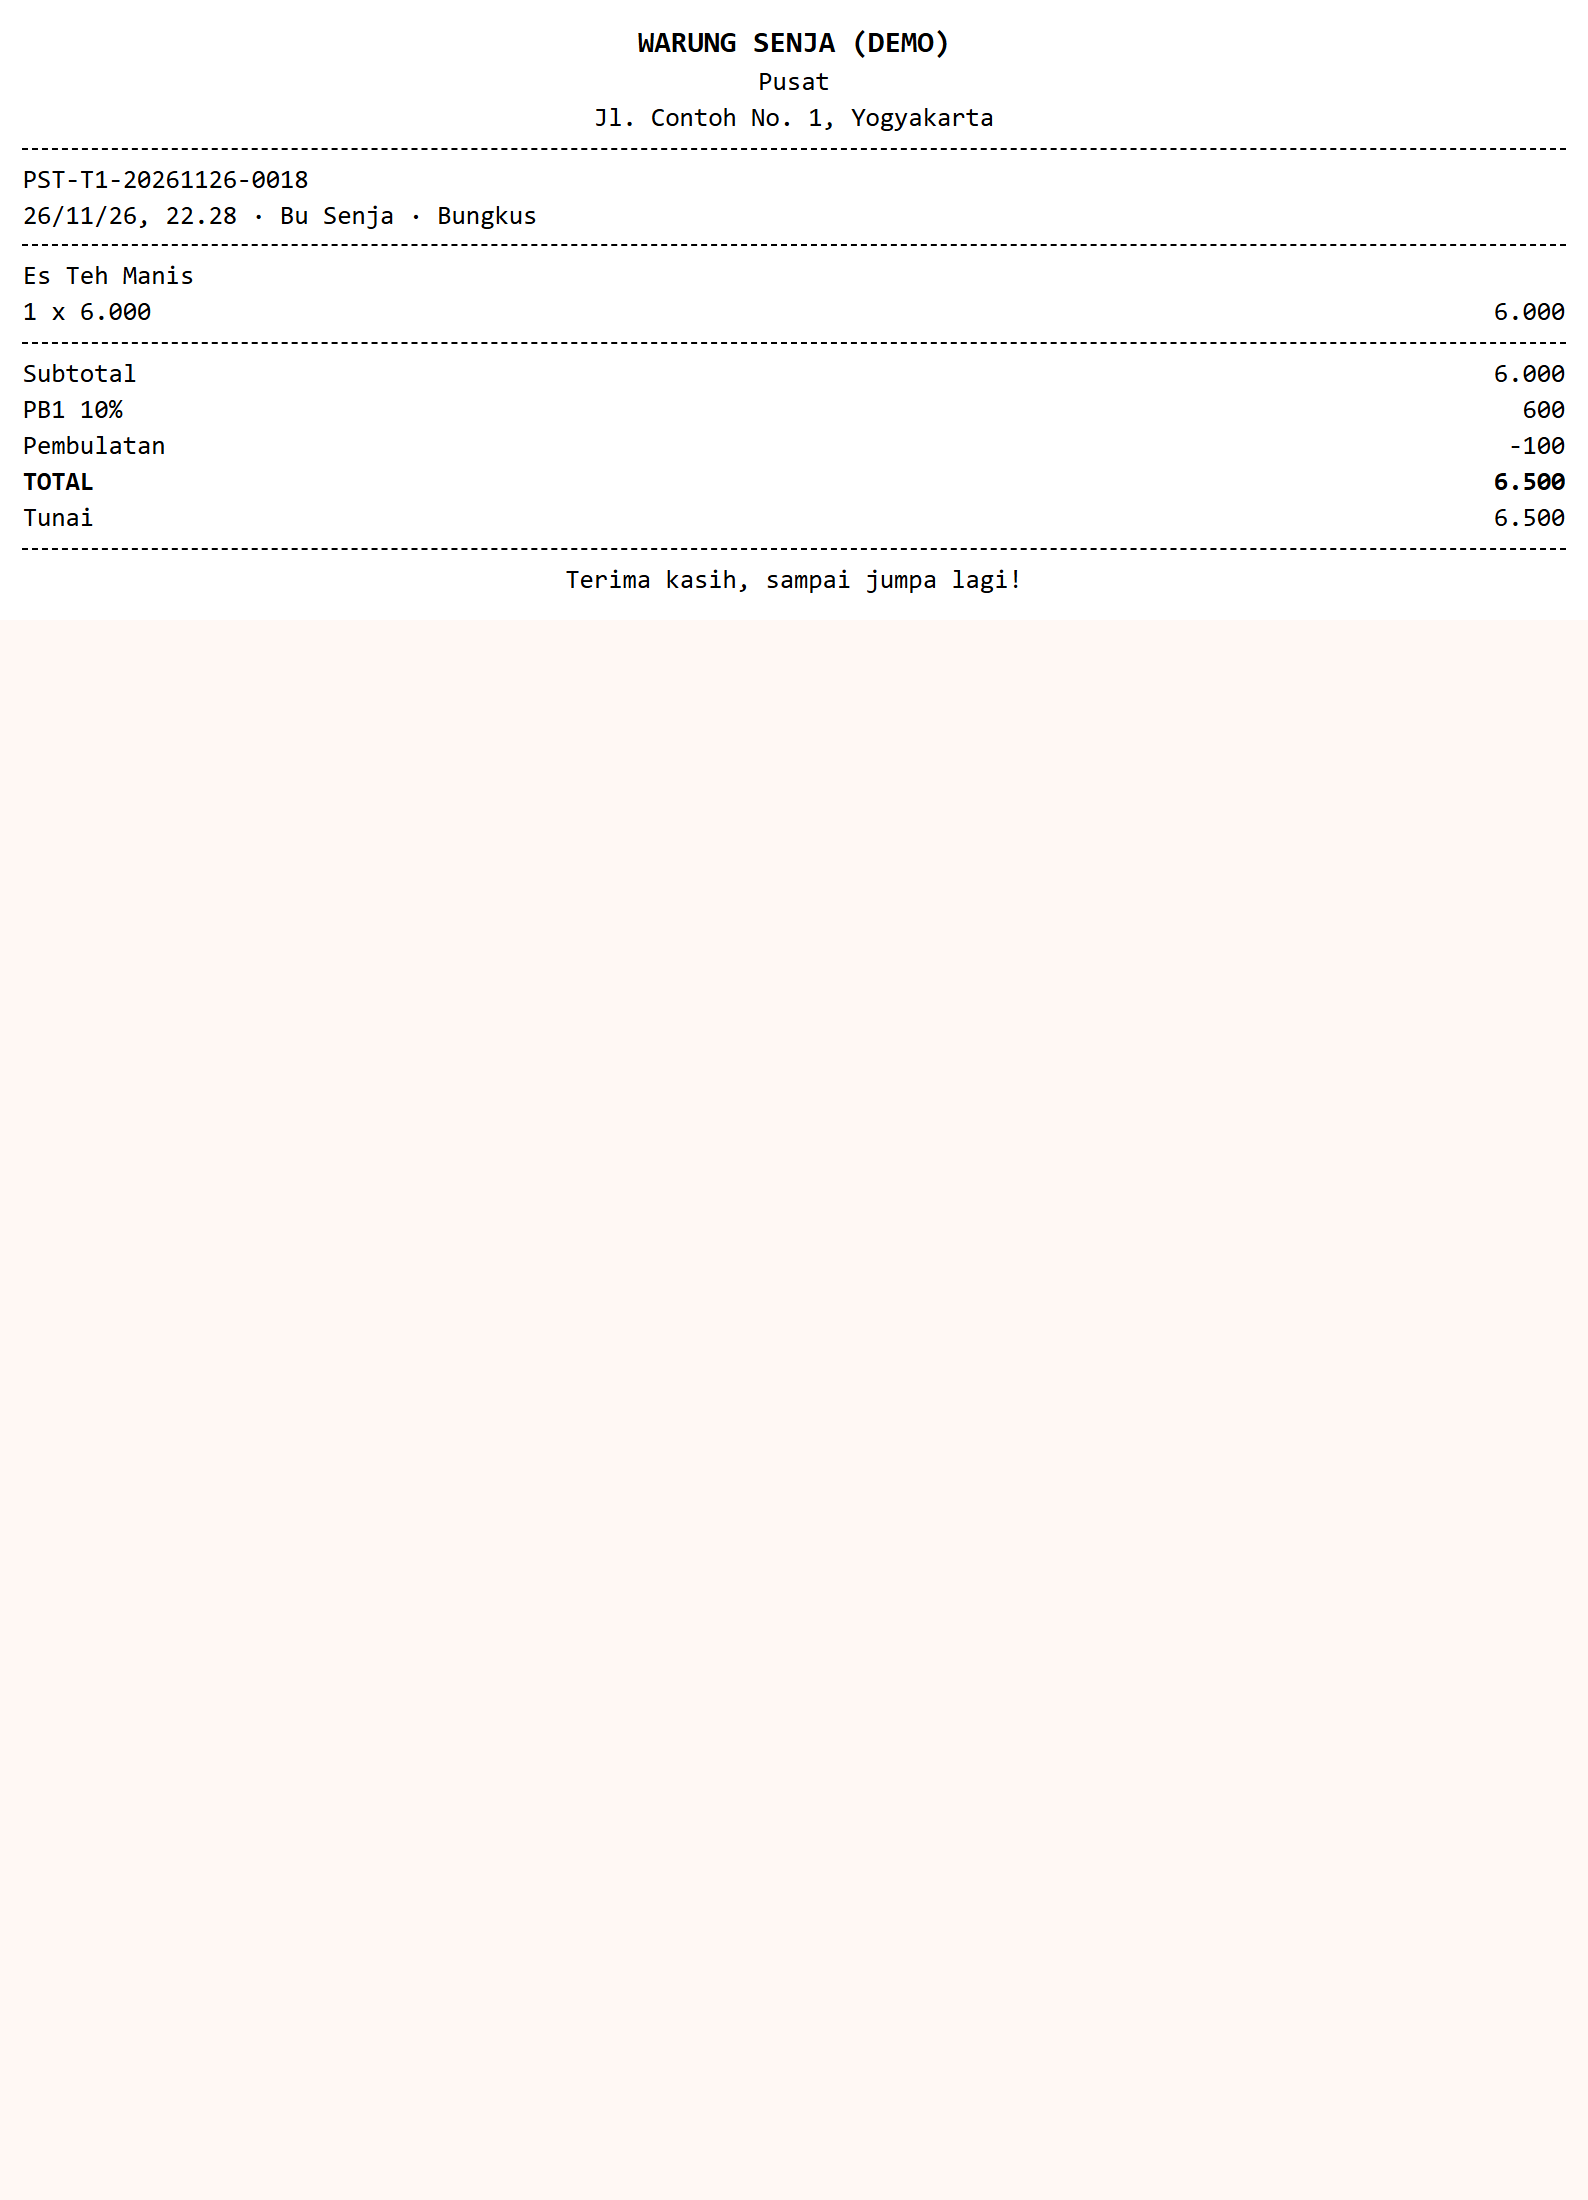
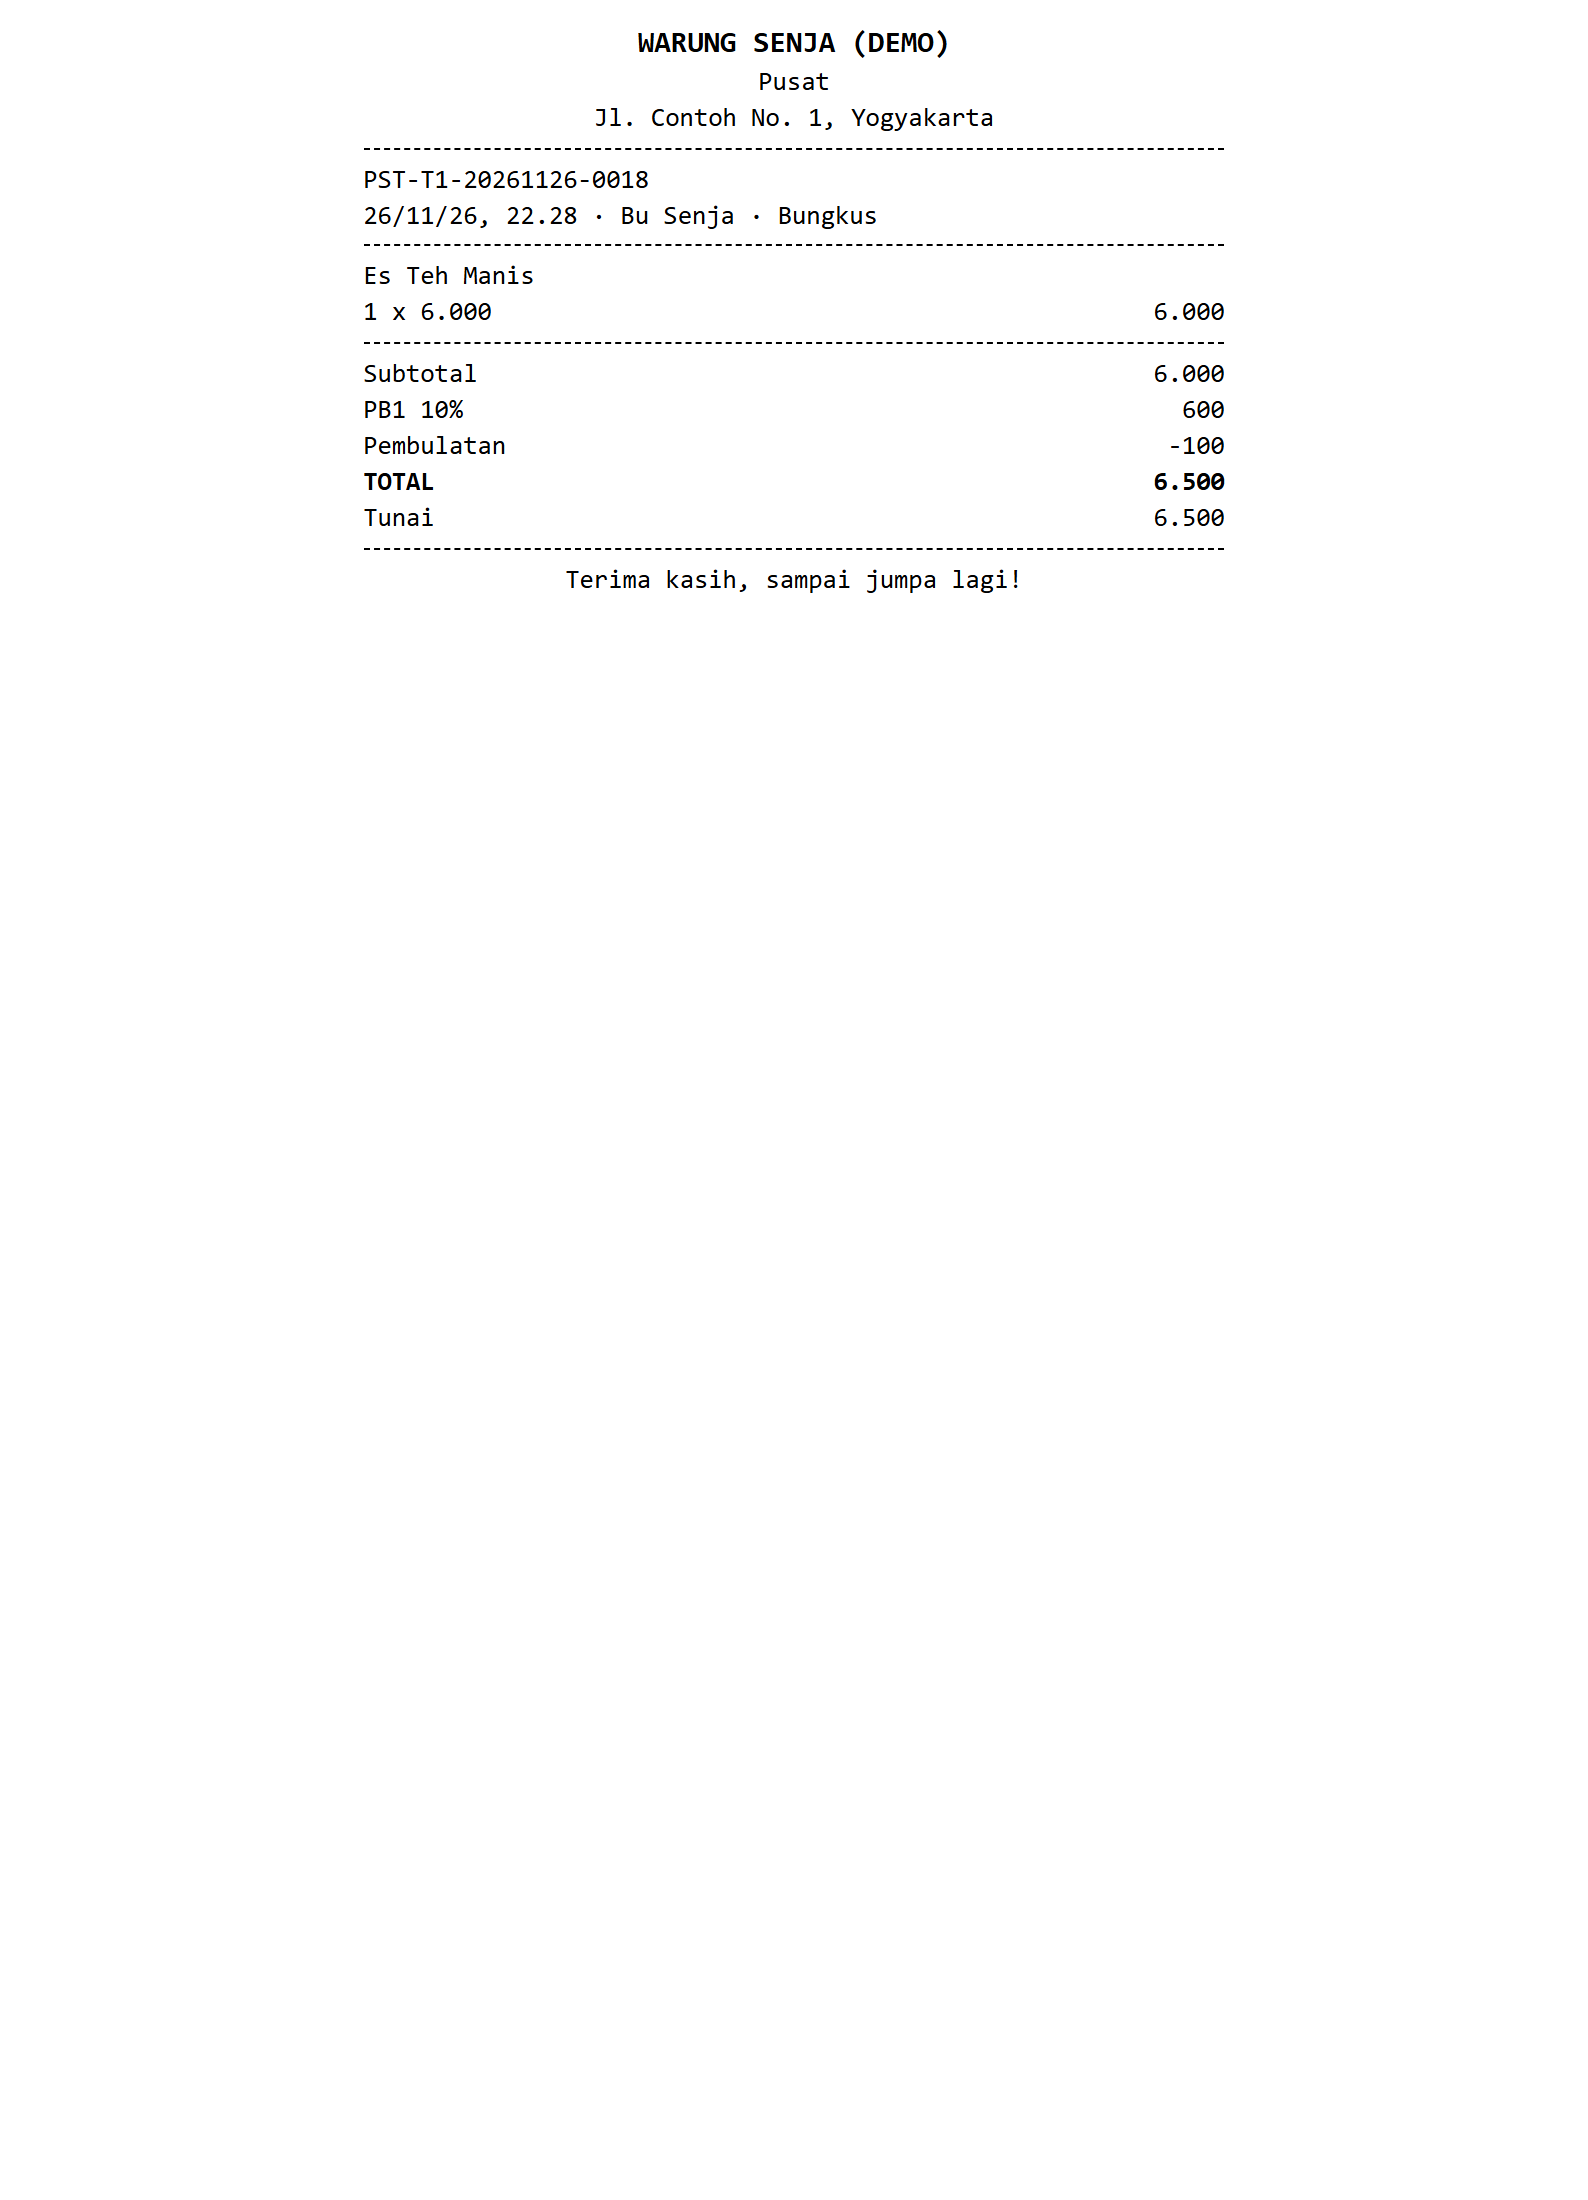
fix(struk): centre the A4 receipt and print on white
The A4 receipt spanned the full page, leaving amounts at the far right
edge. It is now a centred 120 mm column with 20 mm page margins, and
the page background prints white on every paper size.

diff --git a/src/app/kasir/struk/[id]/page.tsx b/src/app/kasir/struk/[id]/page.tsx
@@ -19,7 +19,8 @@ const METHOD_LABEL: Record<string, string> = { cash: "Tunai", qris: "QRIS", tran
 const PAGE: Record<string, string> = {
   "58mm": "@page { margin: 0 } .receipt { width: 58mm; font-size: 11px }",
   "80mm": "@page { margin: 0 } .receipt { width: 80mm; font-size: 12px }",
-  a4: "@page { size: A4; margin: 15mm } .receipt { width: 100%; font-size: 13px }",
+  // A4: a centred column a hand's width wide, so amounts sit next to their labels instead of at the page edge.
+  a4: "@page { size: A4; margin: 20mm } .receipt { width: 120mm; font-size: 13px } @media print { .receipt { right: 0; margin: 0 auto } }",
 };
 
 export default async function StrukPage({ params, searchParams }: PageProps<"/kasir/struk/[id]">) {
@@ -46,7 +47,7 @@ export default async function StrukPage({ params, searchParams }: PageProps<"/ka
   return (
     <main className="mx-auto grid w-full max-w-4xl gap-6 px-4 py-6 sm:px-8 md:grid-cols-[1fr_auto] md:items-start">
       <style>{`${PAGE[o.paper_size] ?? PAGE["58mm"]}
-        @media print { body * { visibility: hidden } .receipt, .receipt * { visibility: visible } .receipt { position: absolute; left: 0; top: 0; box-shadow: none; border-radius: 0; padding: 3mm } }`}</style>
+        @media print { html, body { background: #fff } body * { visibility: hidden } .receipt, .receipt * { visibility: visible } .receipt { position: absolute; left: 0; top: 0; box-shadow: none; border-radius: 0; padding: 3mm } }`}</style>
 
       <div className="grid content-start gap-4 print:hidden">
         <ButtonLink href="/kasir" look="text" className="-ml-3 justify-self-start"><ArrowLeft className="size-4" aria-hidden />Kasir</ButtonLink>

diff --git a/docs/acceptance/README.md b/docs/acceptance/README.md
@@ -10,11 +10,9 @@ Run on 26 Nov 2026 against a production build (`next build && next start`) and a
 | 4 | Concurrent sales never share a receipt number | Pass. Five browser tabs on the same terminal pressed Selesai at the same moment and got 0015 to 0019. No duplicate receipt numbers anywhere in the database | `receipt_no` is unique; the server retries with the next number |
 | 5 | Cashier at outlet A sees zero rows of outlet B through the Supabase API | Pass. A cashier limited to JKT signed in with the publishable key: rows from JKT in every table, 0 rows from YOG in 12 tables and views, insert and `record_sale` on YOG refused with `42501`, `sales_report` for YOG empty. The test cashier was deleted afterwards | Row-Level Security |
 | 6 | Shift close shows counted vs expected, difference stored | Pass. Closed with Rp100.000 counted: the screen showed expected Rp847.000 and a Rp747.000 shortfall, and both values are stored on the shift | [shift-closed.png](shift-closed.png) |
-| 7 | Receipt prints correctly at 58 mm, 80 mm and A4 | Pass. PDFs are one page at 58.3 mm, 80.1 mm and 210 × 297 mm wide; nothing overflows the receipt and no buttons print | [58 mm](receipt-58mm.pdf) · [80 mm](receipt-80mm.pdf) · [A4](receipt-a4.pdf) · print views: [58 mm](print-58mm.png), [80 mm](print-80mm.png), [A4](print-a4.png) |
+| 7 | Receipt prints correctly at 58 mm, 80 mm and A4 | Pass. PDFs are one page at 58.3 mm, 80.1 mm and 210 × 297 mm; nothing overflows the receipt, no buttons print, page background is white. On A4 the receipt is a centred 120 mm column | [58 mm](receipt-58mm.pdf) · [80 mm](receipt-80mm.pdf) · [A4](receipt-a4.pdf) · print views: [58 mm](print-58mm.png), [80 mm](print-80mm.png), [A4](print-a4.png) |
 | 8 | Fresh clone → deploy → demo login in ≤ 15 minutes | Not measured yet | Needs a deploy on a fresh Vercel project |
 
 ## Noted, not blocking
 
-- On A4 the receipt spans the full page width, so amounts sit at the far right edge. Readable, but a narrower column would look better.
-- The PDFs above were made with backgrounds on; a normal browser print leaves the page background white.
 - `sales_report` can be called by a cashier through the API for their own outlet. The reports screen is limited to owners and managers, but the totals themselves are not hidden from cashiers at the database level.
